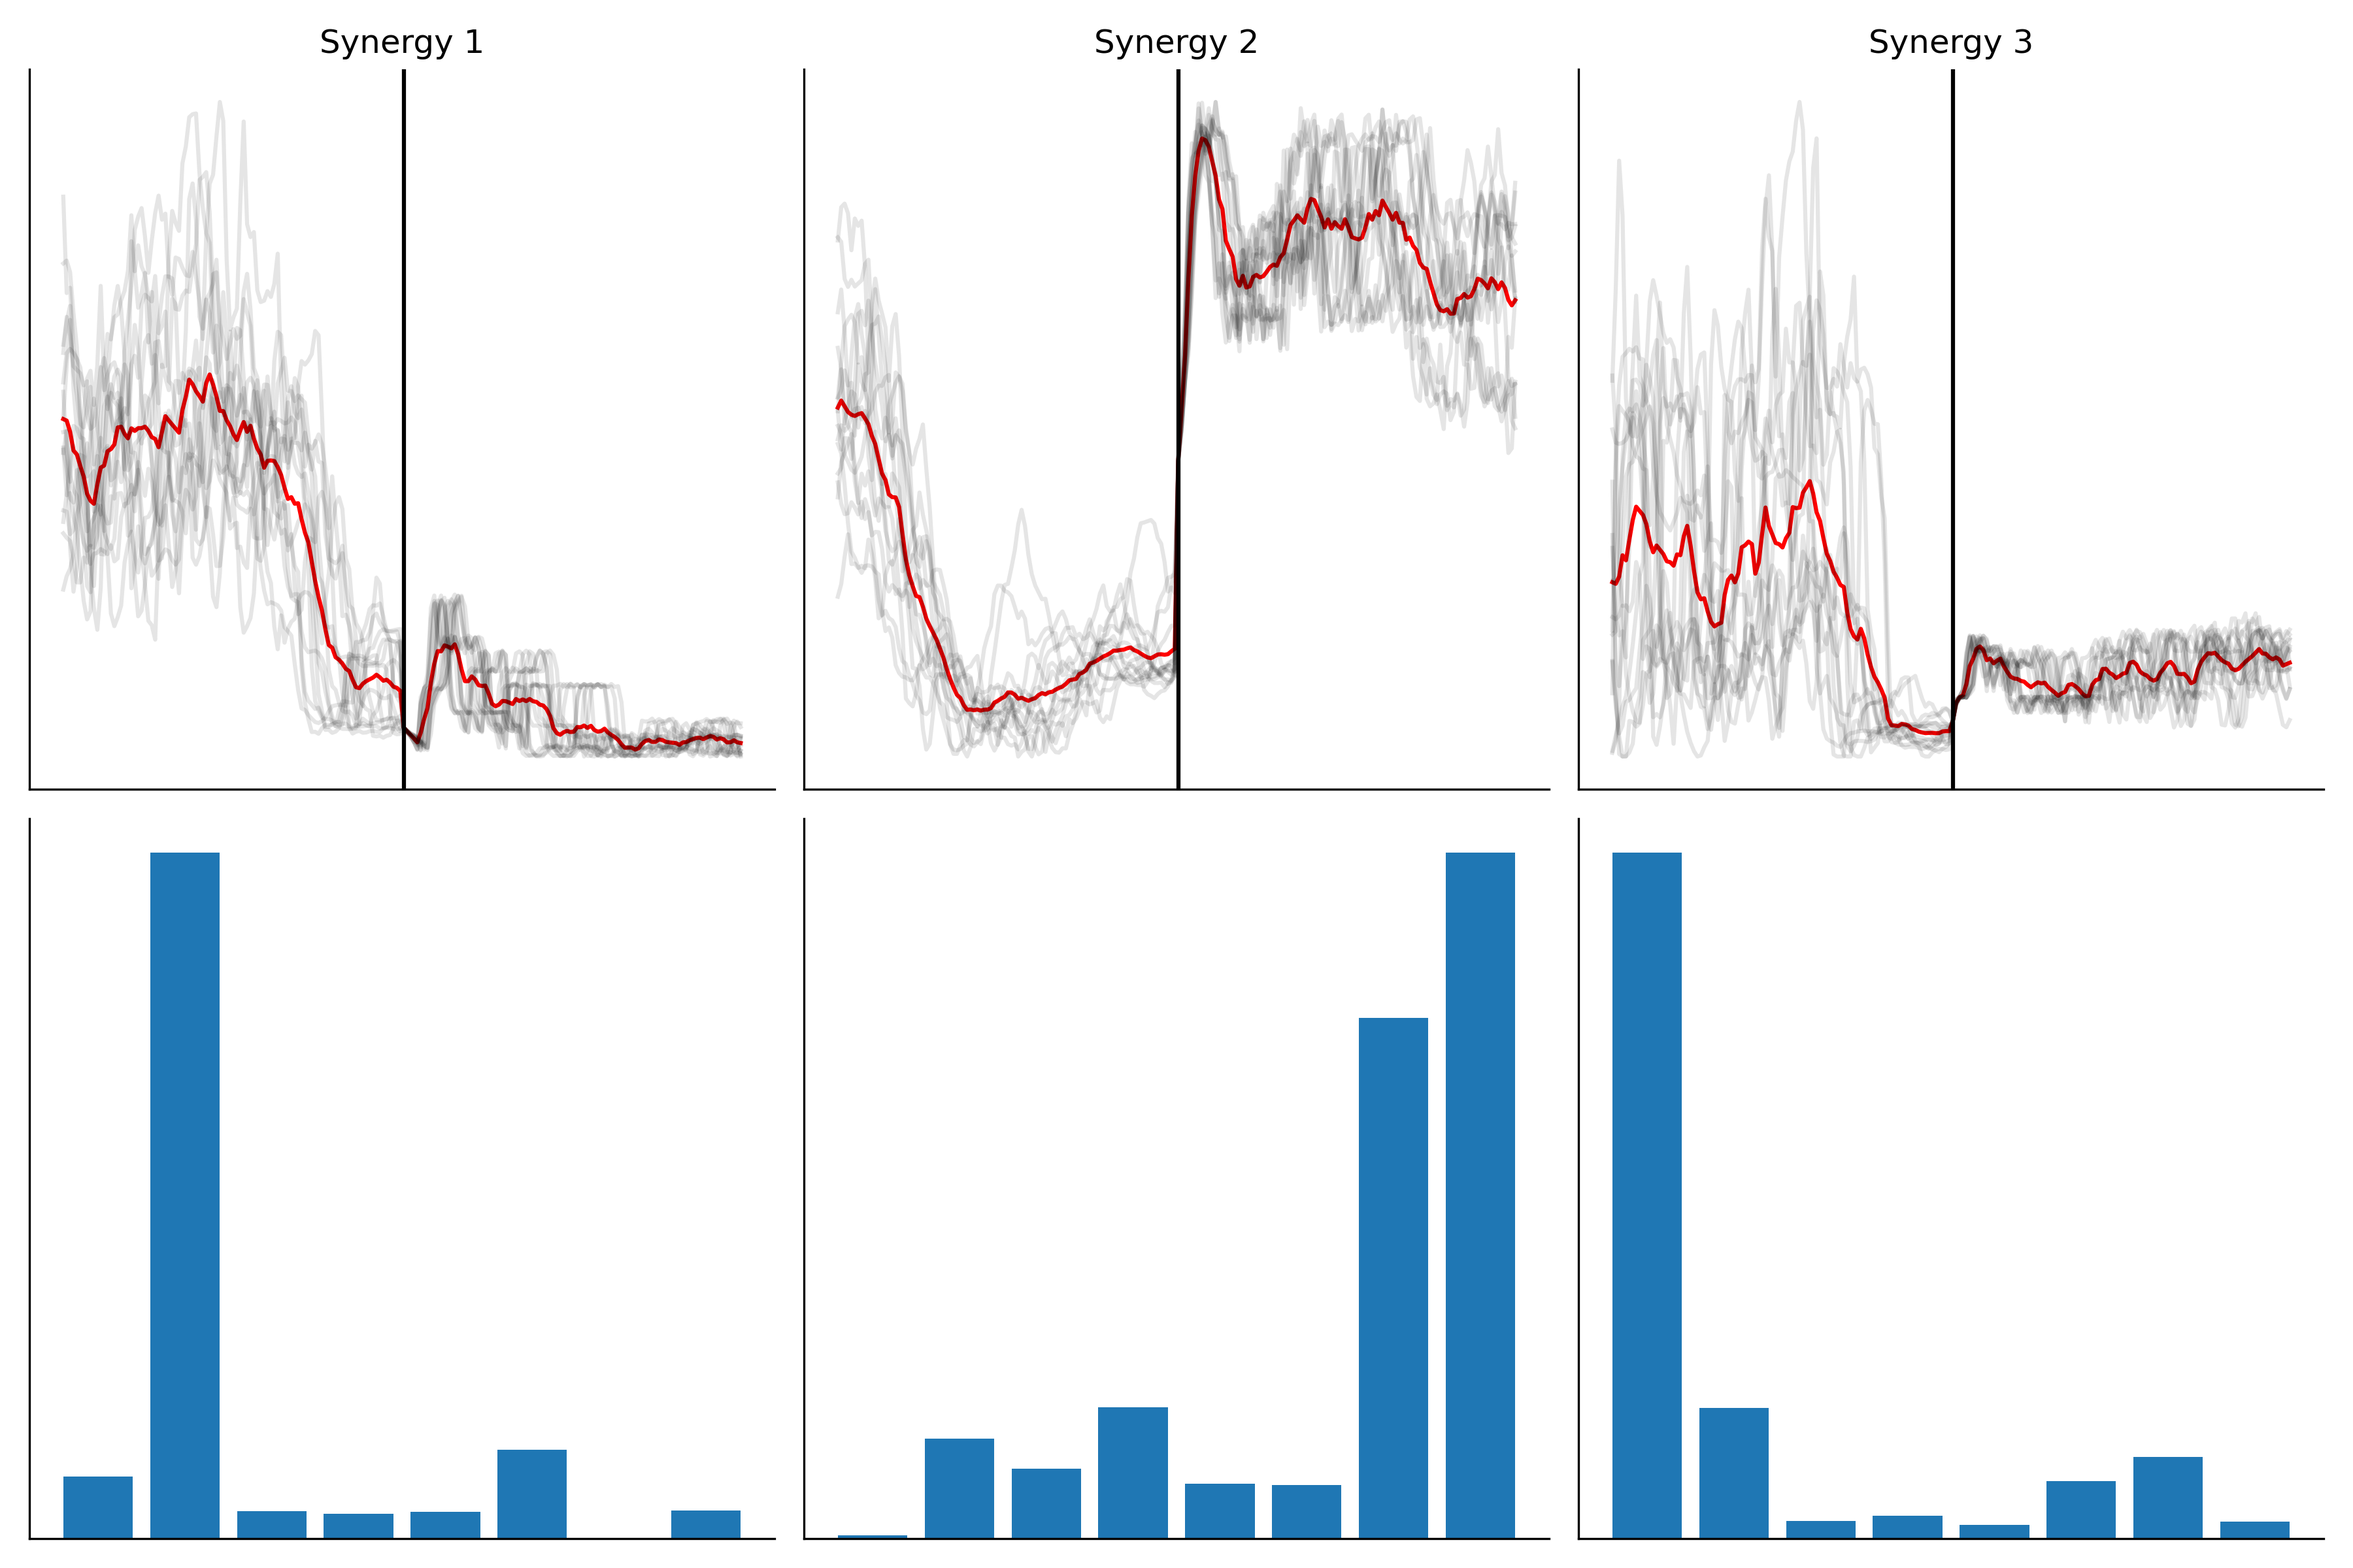
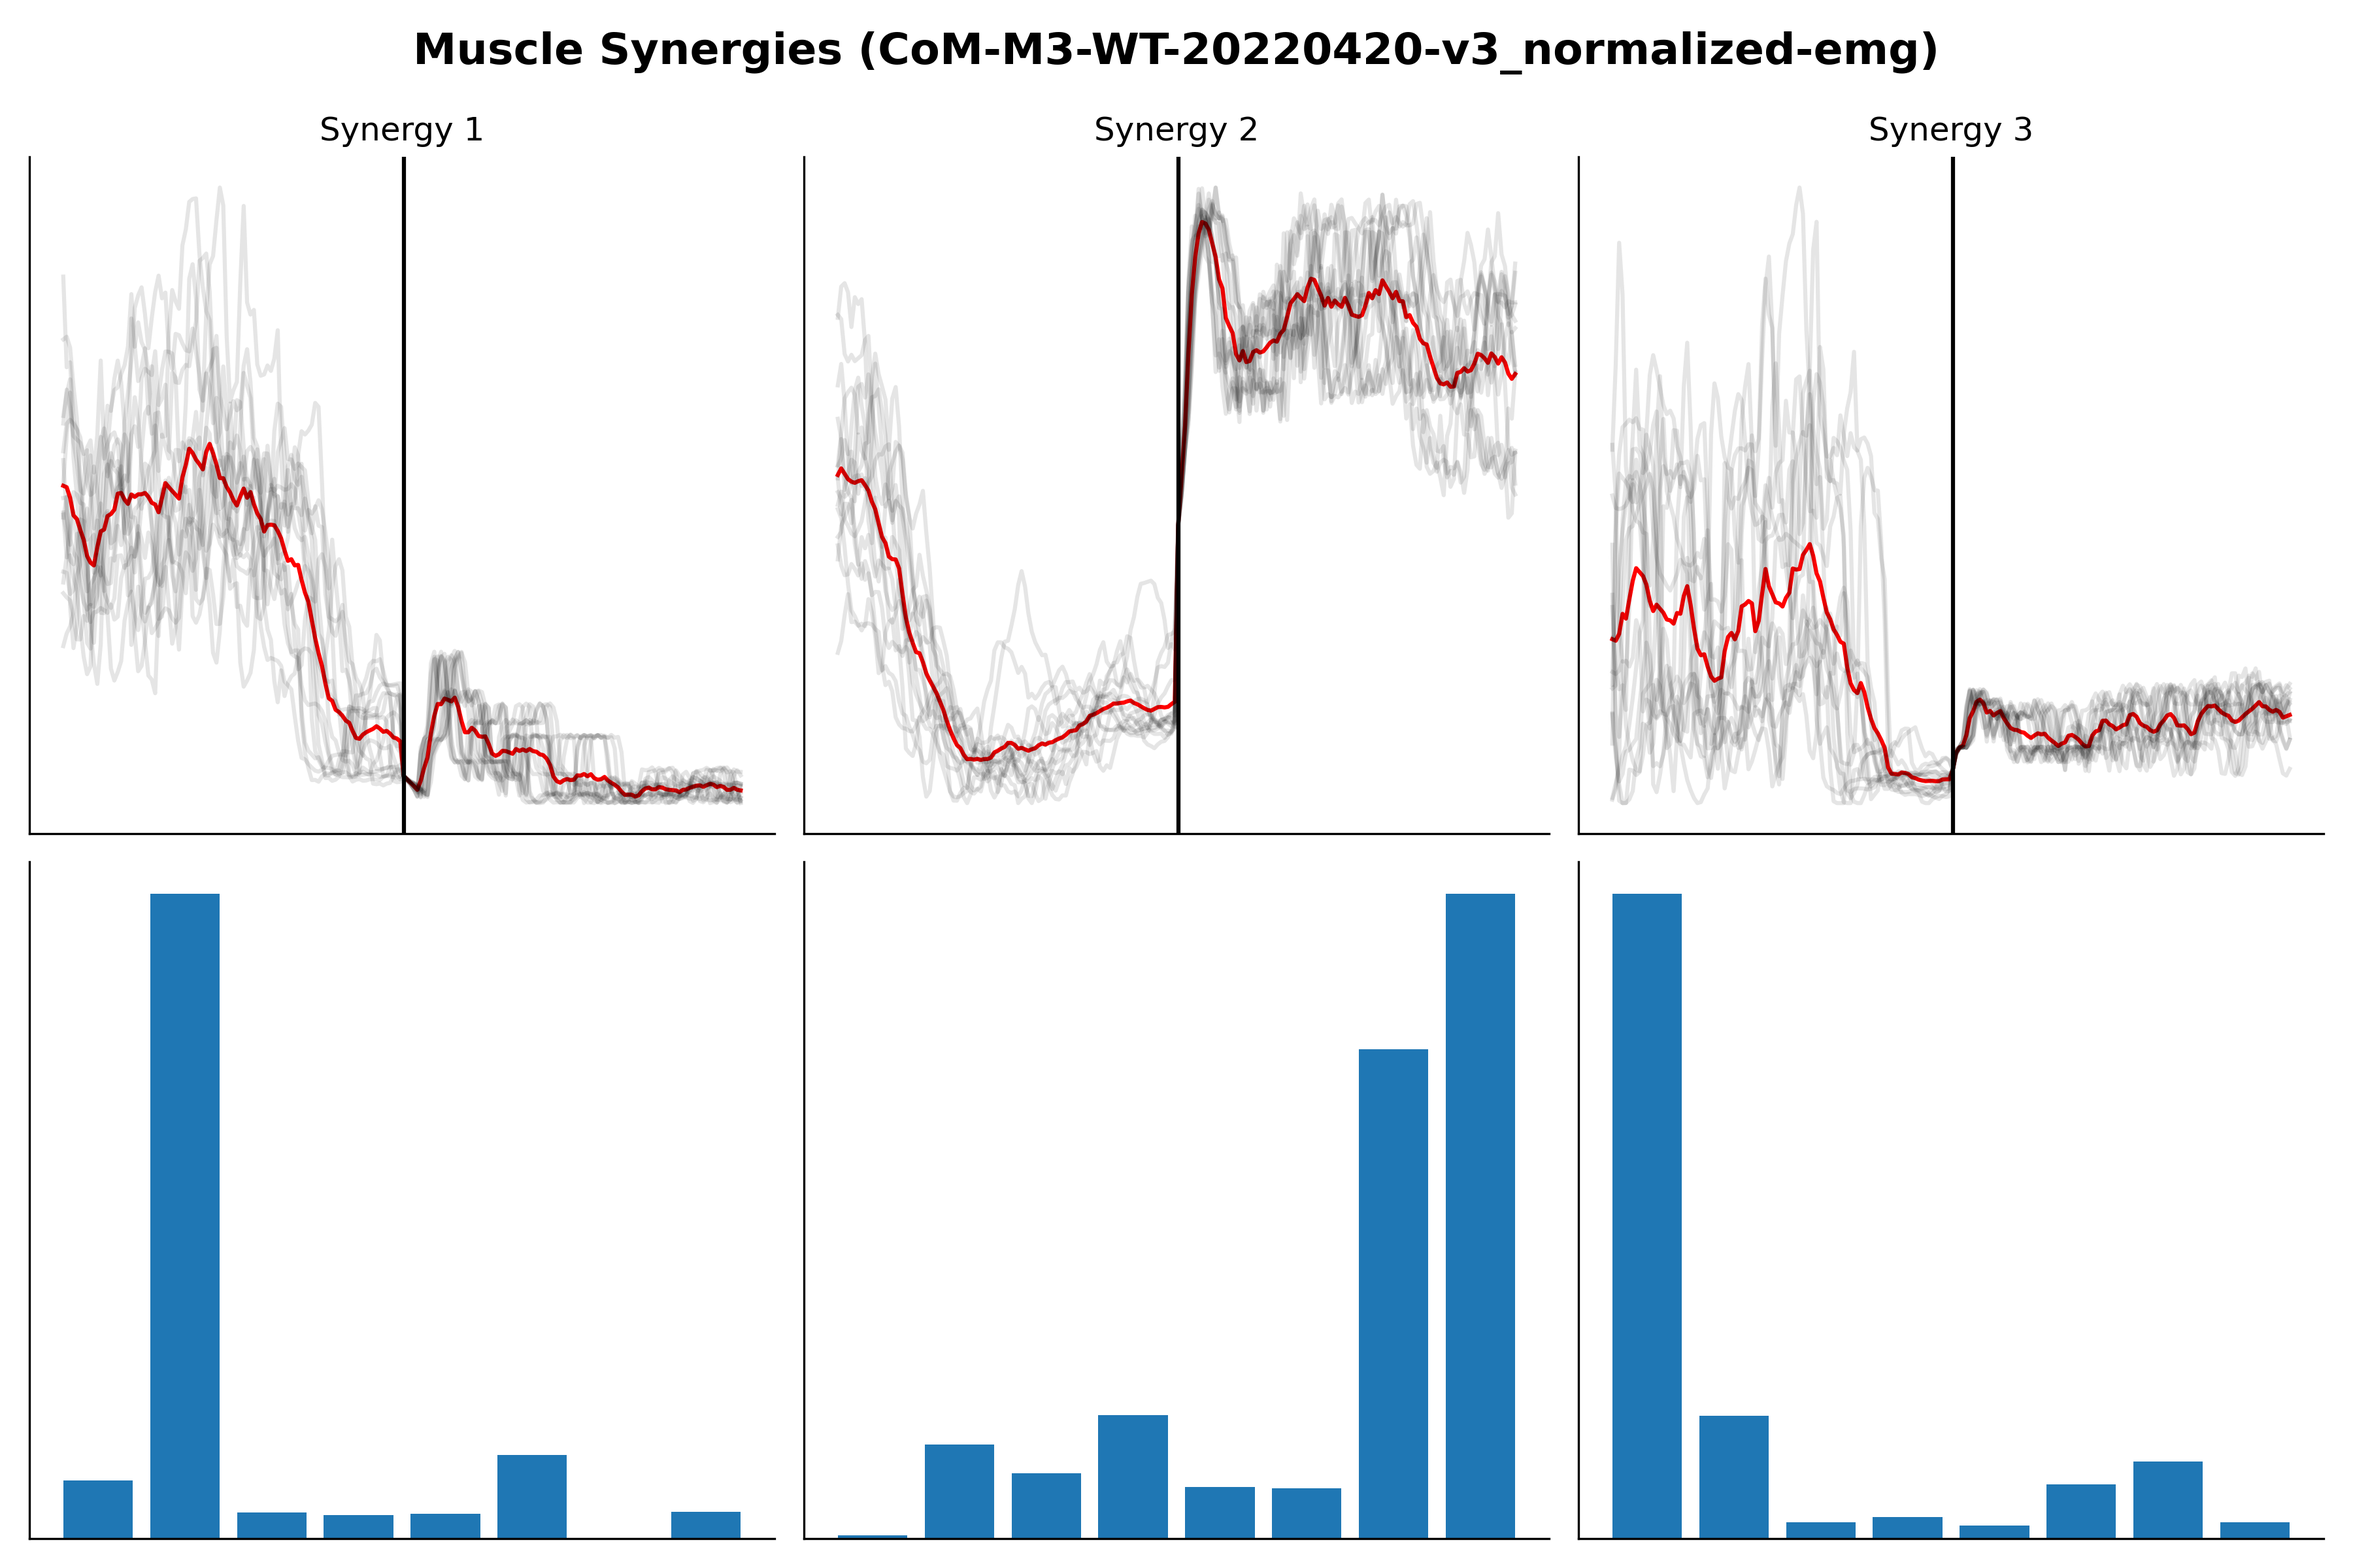
Update

diff --git a/emg/CoM-M3-WT-20220220-v3/synergies.py b/emg/CoM-M3-WT-20220220-v3/synergies.py
@@ -8,6 +8,7 @@ synergy extraction.
 import numpy as np
 import pandas as pd
 import matplotlib.pyplot as plt
+import scipy as sp
 from sklearn.decomposition import NMF
 
 def nnmf_factorize(A, k):
@@ -15,8 +16,8 @@ def nnmf_factorize(A, k):
     @param A: input matrix
     @param k: number of components (muscle channels)
 
-    @return W: factorized matrix
-    @return H: factorized matrix
+    @return W: motor primitives
+    @return H: motor modules
     @return C: factorized matrix
     """
     nmf = NMF(n_components=k, init='random', random_state=0)
@@ -25,9 +26,21 @@ def nnmf_factorize(A, k):
     C = np.dot(W, H)
     return W, H, C
 
+# def normalize_emg(emg):
+#     """Normalize EMG data
+#     @param emg: EMG data
+#     @return emg_norm: normalized EMG data
+#     """
+# 
+#     emg_norm = (emg - np.mean(emg)) / np.std(emg)
+#     return emg_norm
+
 # Load Data
-data = pd.read_csv("./normalized-emg.csv",header=None)
+data = pd.read_csv("./norm-emg-smooth-020.csv", header=None)
 A = data.to_numpy()
+
+# Define some variables about the data
+number_cycles = len(A) // 200
 
 # Defining set of components to use
 num_components = np.array([2, 3, 4, 5, 6, 7])
@@ -37,35 +50,152 @@ R2All = np.zeros(len(num_components))
 for i in range(len(R2All)):
     W, H, C = nnmf_factorize(A, num_components[i])
     R2All[i] = np.corrcoef(C.flatten(), A.flatten())[0,1]**2
-    print ("$R^2$ =", i+2, ":", R2All[i])
+    print ("R^2 =", i+2, ":", R2All[i])
 
 # Calculating correlation coefficient for each component
 corrcoef = np.zeros(len(num_components))
 for i in range(len(R2All)):
     corrcoef[i] = np.corrcoef(num_components[0:i+2], R2All[0:i+2])[0,1]
     print("r =", i+2, ":", corrcoef[i])
-    
-# Plotting Both Methods for determining number of components
-plt.figure()
-plt.subplot(1,2,1)
-plt.plot(num_components, R2All)
-plt.axhline(y=0.95, color='r', linestyle='-')
-plt.xlabel("Number of Components")
-plt.ylabel("$R^2$ of $C^x$ fit to original matrix")
-plt.title("Muscle Synergy Determinance by Percentage")
-plt.subplot(1,2,2)
-plt.scatter(num_components, corrcoef)
-plt.xlabel("Number of Components")
-plt.ylabel("Correlation Coefficient")
-plt.title("Muscle Synergy Determinance by Linearity")
-plt.show()
 
-# Plotting Both Methods overlapping
-plt.plot(num_components, R2All)
-plt.axhline(y=0.95, color='r', linestyle='-')
-plt.xlabel("Number of Components")
-plt.ylabel("$R^2$ of $C^x$ fit to original matrix")
-plt.title("Muscle Synergy Determinance by Percentage")
-plt.scatter(num_components, corrcoef)
-plt.title("Muscle Synergy Determinance by Linearity and $R^2$")
+# Choosing best number of components
+chosen_synergies = 3
+W, H, C = nnmf_factorize(A, chosen_synergies)
+
+samples = np.arange(0, len(C))
+samples_binned = np.arange(200)
+
+# Plot
+motor_modules = H
+motor_primitives = W
+print("--------------------------------")
+print("motor_modules",motor_modules[:,0])
+print("--------------------------------")
+print(motor_primitives[:,0])
+print("--------------------------------")
+
+primitive_trace = np.zeros(200)
+
+# Plotting Primitive Selected Synergy Count
+
+# Iterate over the bins
+for i in range(number_cycles):
+    # Get the data for the current bin
+    time_point_average = motor_primitives[i * 200: (i + 1) * 200, chosen_synergies-2]
+    
+    # Accumulate the trace values
+    primitive_trace += time_point_average
+
+# Calculate the average by dividing the accumulated values by the number of bins
+primitive_trace /= number_cycles
+
+# primitives_average = np.mean(primitives_reshape, axis=1)
+print("Average Primitives:", primitive_trace)
+print("--------------------------------")
+
+plt.plot(samples[samples_binned], primitive_trace, color='blue')
+
+# Plotting individual traces in the background
+for i in range(0, len(motor_primitives), 200):
+    plt.plot(samples[samples_binned], motor_primitives[i:i+200, chosen_synergies-2], color='black', alpha=0.2)
+    # plt.title("Motor Primitives-010-{:04}".format(i))
+    # plt.savefig("motor_primitives-cumulative-010-{:04}.png".format(i), dpi=300)
+
+# Removing axis values
+plt.xticks([])
+plt.yticks([])
+
+# Add a vertical line at the halfway point
+plt.axvline(x=100, color='black')
+
+# Add labels for swing and stance
+plt.text(50, -0.1 * np.max(primitive_trace), 'Swing', ha='center', va='center')
+plt.text(150, -0.1 * np.max(primitive_trace), 'Stance', ha='center', va='center')
+
+# Removing top and right spines of the plot
+plt.gca().spines['top'].set_visible(False)
+plt.gca().spines['right'].set_visible(False)
+plt.gca().spines['bottom'].set_visible(True)
+plt.gca().spines['left'].set_visible(True)
+plt.title("synergy_2-norm-emg-smooth-020")
+plt.savefig('synergy_2-norm-emg-smooth-020.png', dpi=300)
+
+# =======================================
+# Presenting Data as a mutliplot figure |
+# =======================================
+
+fig, axs = plt.subplots(2, chosen_synergies, figsize=(12, 8))
+
+# Calculate the average trace for each column
+number_cycles = len(motor_primitives) // 200  # Calculate the number of 200-value bins
+
+for col in range(chosen_synergies):
+    primitive_trace = np.zeros(200)  # Initialize an array for accumulating the trace values
+
+    # Iterate over the binned data by the number of cycles
+    for i in range(number_cycles):
+        # Get the data for the current bin in the current column
+        time_point_average = motor_primitives[i * 200: (i + 1) * 200, col]
+
+        # Accumulate the trace values
+        primitive_trace += time_point_average
+
+    # Calculate the average by dividing the accumulated values by the number of bins
+    primitive_trace /= number_cycles
+
+    # Plot the average trace in the corresponding subplot
+    axs[0, col].plot(samples[samples_binned], primitive_trace, color='red', label='Average Trace')
+    axs[0, col].set_title('Synergy {}'.format(col+1))
+
+    # Iterate over the bins again to plot the individual bin data
+    for i in range(number_cycles):
+        # Get the data for the current bin in the current 0, column
+        time_point_average = motor_primitives[i * 200: (i + 1) * 200, col]
+
+        # Plot the bin data
+        axs[0, col].plot(samples[samples_binned], time_point_average, label='Bin {}'.format(i+1), color='black', alpha=0.1)
+
+    # Add vertical lines at the halfway point in each subplot
+    axs[0, col].axvline(x=100, color='black')
+   
+    # Begin Presenting Motor Modules
+
+    # Get the data for the current column
+    motor_module_column_data = motor_modules[col, :chosen_synergies-1]  # Select all rows for the current column
+
+    # Set the x-axis values for the bar graph
+    x_values = np.arange(len(motor_module_column_data))
+    
+    # Plot the bar graph for the current column in the corresponding subplot
+    axs[1, col].bar(x_values, motor_module_column_data)
+
+    # Remove top and right spines of each subplot
+    axs[0, col].spines['top'].set_visible(False)
+    axs[0, col].spines['right'].set_visible(False)
+    axs[1, col].spines['top'].set_visible(False)
+    axs[1, col].spines['right'].set_visible(False)
+
+    # Remove labels on x and y axes
+    axs[1, col].set_xticklabels([])
+    axs[0, col].set_yticklabels([])
+ 
+    # Remove x and y axis labels and ticks from the avg_trace subplot
+    axs[0, col].set_xticks([])
+    axs[0, col].set_yticks([])
+    axs[0, col].set_xlabel('')
+    axs[0, col].set_ylabel('')
+
+    # Remove x and y axis labels and ticks from the motor module subplot
+    axs[1, col].set_xticks([])
+    axs[1, col].set_yticks([])
+    axs[1, col].set_xlabel('')
+    axs[1, col].set_ylabel('')
+
+# Adjust spacing between subplots
+plt.tight_layout()
+fig.suptitle('Muscle Synergies (CoM-M3-WT-20220420-v3_norm-emg-smooth-020)', fontsize=16, fontweight='bold')
+plt.subplots_adjust(top=0.9)
+plt.savefig('CoM-M3-WT-20220420-v3-synergies_norm-emg-smooth-020.png', dpi=300)
+
+# Show all the plots
 plt.show()

diff --git a/emg/CoM-M3-WT-20220220-v3/motor-modules.py b/emg/CoM-M3-WT-20220220-v3/motor-modules.py
@@ -36,7 +36,7 @@ def nnmf_factorize(A, k):
 #     return emg_norm
 
 # Load Data
-data = pd.read_csv("./norm-emg-smooth-010.csv", header=None)
+data = pd.read_csv("./normalized-emg.csv", header=0)
 A = data.to_numpy()
 
 # Define some variables about the data
@@ -192,9 +192,9 @@ for col in range(chosen_synergies):
 
 # Adjust spacing between subplots
 plt.tight_layout()
-fig.suptitle('Muscle Synergies (CoM-M3-WT-20220420-v3_norm-emg-smooth-10)', fontsize=16, fontweight='bold')
+fig.suptitle('Muscle Synergies (CoM-M3-WT-20220420-v3_normalized-emg)', fontsize=16, fontweight='bold')
 plt.subplots_adjust(top=0.9)
-plt.savefig('CoM-M3-WT-20220420-v3-synergies.png', dpi=300)
+plt.savefig('CoM-M3-WT-20220420-v3-synergies_normalized-emg.png', dpi=300)
 
 # Show all the plots
 plt.show()
